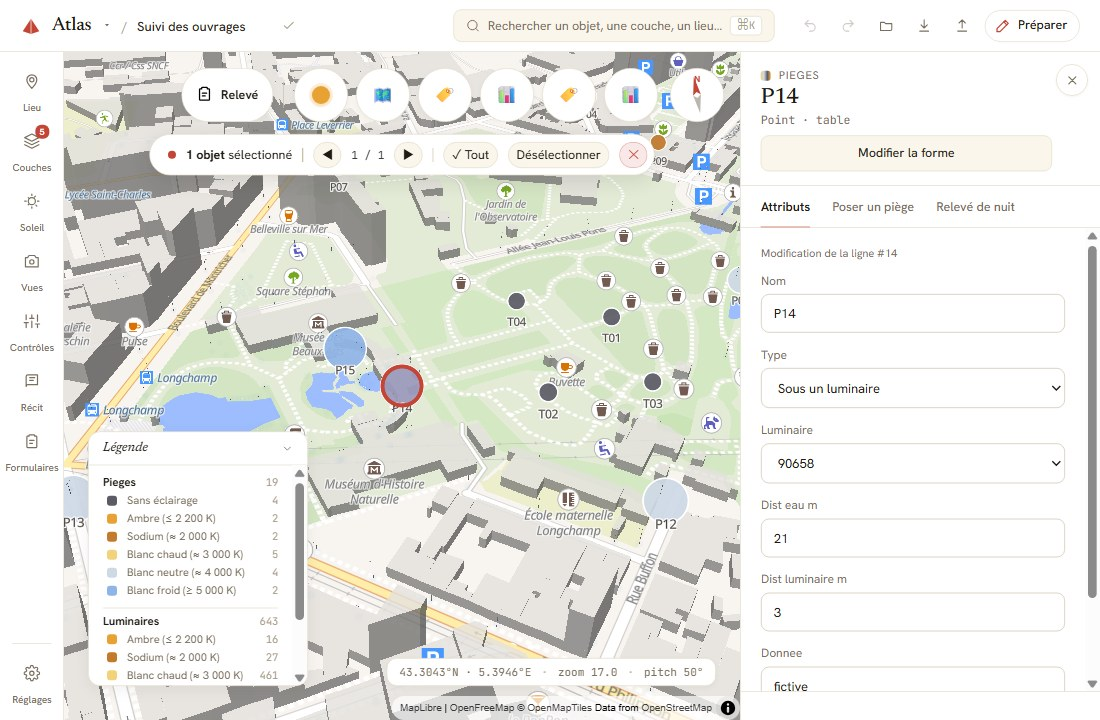
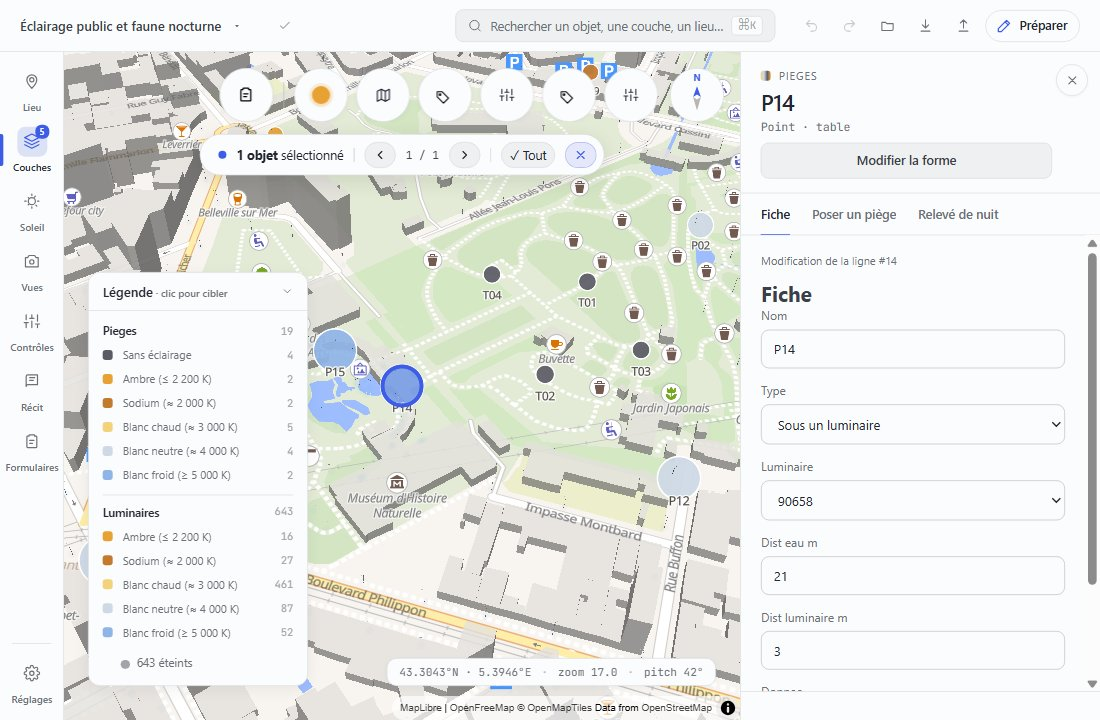
chore(vitrine): refaire les captures d'Atlas avec l'apparence sobre de la 1.45
- 24 captures du cas Palais Longchamp reprises avec la 1.46.0 : scene publiee, exploitation (faux document Grist), telephone et menu de l'application, routes IGN et trafic (BD TOPO en direct).
- Les trois captures des pages hotes du composant BI (atelier, Rennes, chaleur) restent : elles montrent la charte de l'hote, pas celle d'Atlas.
- Legende du trafic : plus de couleurs affirmees (voitures et bus en 3D).

diff --git a/published/w/atlas/index.html b/published/w/atlas/index.html
@@ -16,7 +16,7 @@
 <meta name="twitter:card" content="summary_large_image">
 <meta name="twitter:title" content="Atlas — widget Grist">
 <meta name="twitter:description" content="Atlas affiche vos tableaux sur une carte : dans Grist, sur un téléphone ou dans votre propre site, à vos couleurs. La carte reste à jour sans rien exporter, et vos données restent chez vous.">
-<script type="application/ld+json">{"@context":"https://schema.org","@type":"SoftwareApplication","name":"Atlas","description":"Atlas affiche vos tableaux sur une carte : dans Grist, sur un téléphone ou dans votre propre site, à vos couleurs. La carte reste à jour sans rien exporter, et vos données restent chez vous.","url":"https://nic01asfr.github.io/Widgets-Grist/w/atlas/","applicationCategory":"BusinessApplication","operatingSystem":"Web","inLanguage":"fr","offers":{"@type":"Offer","price":"0","priceCurrency":"EUR"},"codeRepository":"https://github.com/nic01asFr/Widgets-Grist/tree/main/projects/Atlas","dateModified":"2026-11-10"}</script>
+<script type="application/ld+json">{"@context":"https://schema.org","@type":"SoftwareApplication","name":"Atlas","description":"Atlas affiche vos tableaux sur une carte : dans Grist, sur un téléphone ou dans votre propre site, à vos couleurs. La carte reste à jour sans rien exporter, et vos données restent chez vous.","url":"https://nic01asfr.github.io/Widgets-Grist/w/atlas/","applicationCategory":"BusinessApplication","operatingSystem":"Web","inLanguage":"fr","offers":{"@type":"Offer","price":"0","priceCurrency":"EUR"},"codeRepository":"https://github.com/nic01asFr/Widgets-Grist/tree/main/projects/Atlas","dateModified":"2026-11-27"}</script>
 <style>
 :root { --papier: #F6F8F9; --surface: #FFFFFF; --encre: #222631; --plume: #6C7077; --filet: #D8DBDD; --accent: #3E5DE7; }
 @media (prefers-color-scheme: dark) {
@@ -264,7 +264,7 @@ main > .chapeau + .annexe-bloc { margin-top: 2.6rem; }
   <div class="faits">
     <span><b>1</b> widget</span>
     <span>Accès <b>lecture et écriture</b></span>
-    <span>Mis à jour il y a 17 j</span>
+    <span><span class="vif"></span>Mis à jour aujourd&#39;hui</span>
   </div>
   <div class="boutons">
     <a class="bouton" href="#cas">Voir un cas de bout en bout</a>
@@ -333,7 +333,7 @@ main > .chapeau + .annexe-bloc { margin-top: 2.6rem; }
         <div class="texte"><h4>Une grille d’analyse en relief</h4><p>La même idée pour une grille : la hauteur dit une mesure, la couleur en dit une autre. Les volumes sont opaques, pour que deux couches ne se traversent pas.</p><ul class="etiquettes"><li>Mode à plat ou en volume</li></ul></div>
       </div>
       <div class="diapo" role="group" aria-roledescription="diapositive" aria-label="7 sur 10">
-        <figure><img src="cas-trafic.jpg" alt="Des véhicules blancs et orange qui roulent sur les rues de l’IGN autour du Palais Longchamp" width="1100" height="687" loading="lazy" decoding="async"><figcaption>Des véhicules (blanc : voitures, orange : poids lourds) sur les rues importées de l’IGN ; les allées du parc, à droite, restent vides. Trafic simulé.</figcaption></figure>
+        <figure><img src="cas-trafic.jpg" alt="Des voitures et des bus en 3D qui roulent sur les rues de l’IGN autour du Palais Longchamp" width="1100" height="687" loading="lazy" decoding="async"><figcaption>Des véhicules (blanc : voitures, orange : poids lourds) sur les rues importées de l’IGN ; les allées du parc, à droite, restent vides. Trafic simulé.</figcaption></figure>
         <div class="texte"><h4>Du trafic sur vos routes</h4><p>Sur des routes importées, « Animer le trafic » fait rouler voitures et poids lourds, qui respectent les sens uniques et cèdent le passage aux giratoires. Les allées et sentiers restent vides. La densité et les destinations sont des hypothèses : Atlas dit que c’est simulé.</p><ul class="etiquettes"><li>Trafic simulé</li><li>Sens uniques</li><li>Routes IGN ou OSM</li></ul></div>
       </div>
       <div class="diapo" role="group" aria-roledescription="diapositive" aria-label="8 sur 10">
